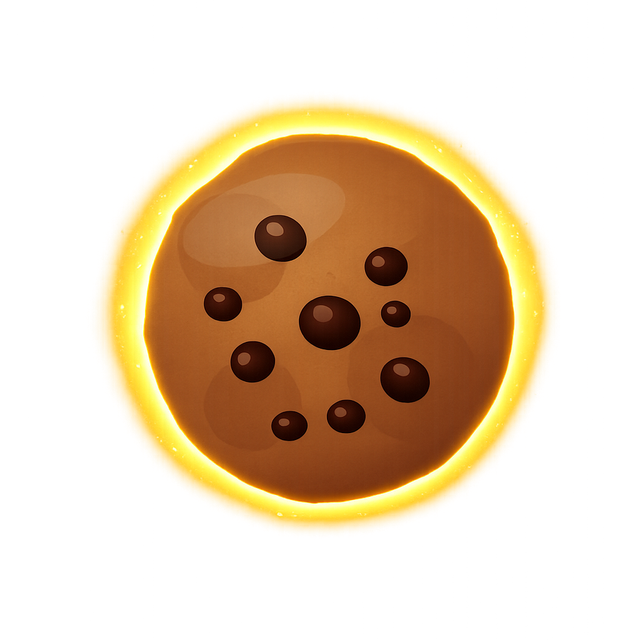
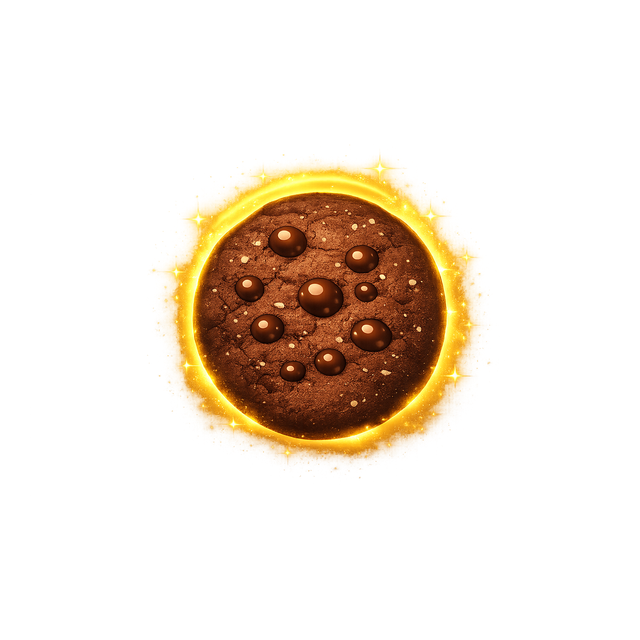
art(cookie): new chocolate+golden-ring PNG for post-ascension cookie (v=65)

diff --git a/style.css b/style.css
@@ -297,7 +297,7 @@ html, body {
   pointer-events: none;
   /* Base (pre-ascension) cookie art. Theme-swapped below. background-image (not
      <img>) so the golden theme can substitute a different PNG via CSS. */
-  background: url('assets/cookie_base.png?v=64') center / contain no-repeat;
+  background: url('assets/cookie_base.png?v=65') center / contain no-repeat;
 }
 
 .float-layer {
@@ -1448,5 +1448,5 @@ body.theme-golden .topbar {
 /* After the first ascension, swap the cookie art to the chocolate + golden-ring
    PNG (the base pre-ascension cookie is the lighter one, set on .cookie-svg). */
 body.theme-golden .cookie-svg {
-  background-image: url('assets/cookie.png?v=64');
+  background-image: url('assets/cookie.png?v=65');
 }

diff --git a/push/src/index.js b/push/src/index.js
@@ -16,7 +16,7 @@
 // (and thus the freshly-versioned css/js). Bump this to the current frontend
 // version on every deploy that must reach players immediately. Must also be
 // updated in BotFather's Menu Button URL (that launch path bypasses the worker).
-const GAME_URL = 'https://mscherbin.github.io/cookie-clicker-tma/?v=64';
+const GAME_URL = 'https://mscherbin.github.io/cookie-clicker-tma/?v=65';
 // Must match game.js's OFFLINE_FULL_RATE_SECONDS / OFFLINE_RATE / computeOfflineGain.
 const OFFLINE_FULL_RATE_SECONDS = 2 * 3600;
 const OFFLINE_RATE = 0.1;

diff --git a/index.html b/index.html
@@ -4,7 +4,7 @@
 <meta charset="UTF-8" />
 <meta name="viewport" content="width=device-width, initial-scale=1.0, maximum-scale=1.0, user-scalable=no, viewport-fit=cover" />
 <title>Cookie Clicker TMA</title>
-<link rel="stylesheet" href="style.css?v=64" />
+<link rel="stylesheet" href="style.css?v=65" />
 <script src="https://telegram.org/js/telegram-web-app.js"></script>
 </head>
 <body>
@@ -184,6 +184,6 @@
   </div>
 </div>
 
-<script src="game.js?v=64"></script>
+<script src="game.js?v=65"></script>
 </body>
 </html>
